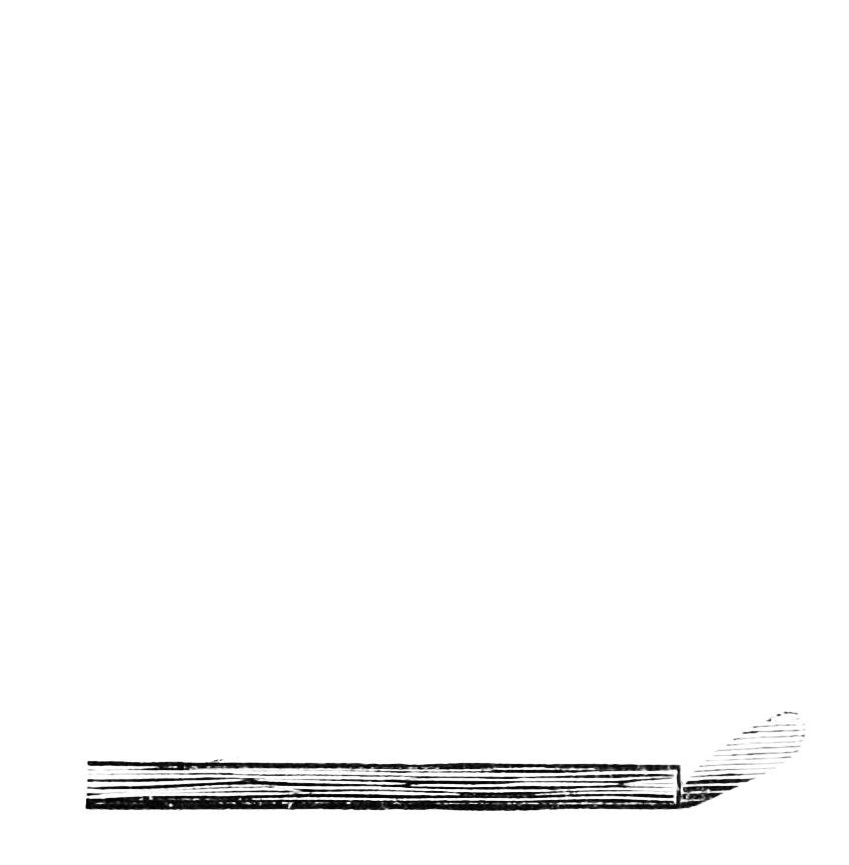
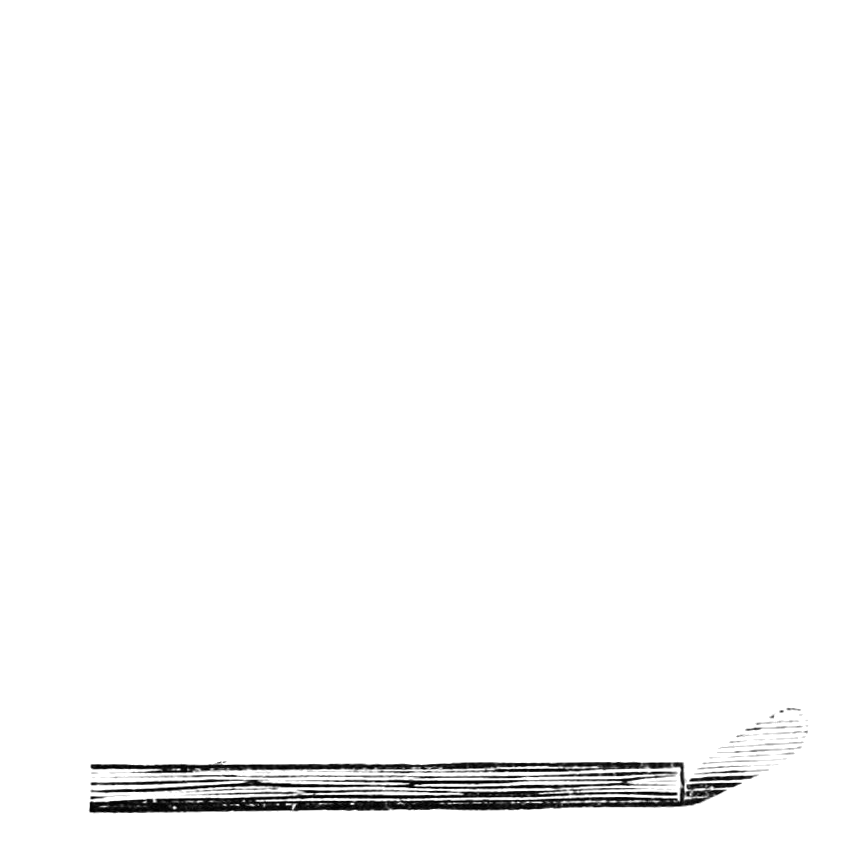
Almost done fire

Changed region(s): [[0.0919, 0.8116, 0.9494, 0.9676]]

diff --git a/FireMinigame.java b/FireMinigame.java
@@ -30,9 +30,8 @@ public class FireMinigame extends JPanel
 
   private double ambient_;
   private double temp_;
+  private double acceleration_, velocity_;
   private int position_;
-  private double velocity_;
-  private boolean isLeft_;
 
   public FireMinigame(Dimension size)
   {
@@ -82,8 +81,7 @@ public class FireMinigame extends JPanel
       weatherClr = Color.BLUE;
     }
     position_ = 0;
-    velocity_ = 0;
-    isLeft_ = false;
+    velocity_ = acceleration_ = 0;
     img_ = new BufferedImage((int)size.getWidth(), (int)size.getHeight(),
                              BufferedImage.TYPE_INT_ARGB);
     g2d_ = (Graphics2D)img_.createGraphics();
@@ -102,20 +100,44 @@ public class FireMinigame extends JPanel
       System.out.println("ERROR: Image(s) missing from img/ directory");
       System.exit(-1);
     }
-    g2d_.drawImage(fire[0],
-                   0, img_.getHeight()/2, (img_.getWidth() - 1), (img_.getHeight() - 1),
-                   0, 0, (fire[0].getWidth() - 1), (fire[0].getHeight() - 1),
-                   Color.BLACK, null); 
 
     timer_ = new Timer(MILLISECONDS_BETWEEN_FRAMES, new ActionListener()
       {
         public void actionPerformed(ActionEvent e)
         {
           timer_.stop();
+          changeBackground(Color.WHITE); 
+          //Calculate position, etc., then draw
+          velocity_ += acceleration_;
+          temp_ += .2*Math.abs(velocity_);
+          position_ += (int)velocity_;
+          if(velocity_ != 0 || acceleration_ != 0)
+          {
+            velocity_ *= .999;
+            acceleration_ *= .85;
+          }
+          if(position_ > 500)
+          {
+            position_ = 500;
+            velocity_ = -1*velocity_;
+            acceleration_ = 0;
+          }
+          else if(position_ < -125)
+          {
+            position_ = -125;
+            velocity_ = -1*velocity_;
+            acceleration_ = 0;
+          }
+          g2d_.drawImage(fire[0],
+                         0, img_.getHeight()/2, (img_.getWidth() - 1), (img_.getHeight() - 1),
+                         0, 0, (fire[0].getWidth() - 1), (fire[0].getHeight() - 1),
+                         Color.BLACK, null); 
           g2d_.drawImage(fire[1],
-                         position_, 0, (img_.getWidth() - 1), (int)(img_.getHeight()/1.06),
+                         position_, 0, (img_.getWidth() - 1), (int)(img_.getHeight()/1.065),
                          0, 0, fire[1].getWidth(), fire[1].getHeight(),
                          Color.BLACK, null); 
+
+          //Text display, etc.
           if(temp_ > 800)
           {
             g2d_.drawImage(fire[2],
@@ -140,7 +162,7 @@ public class FireMinigame extends JPanel
           else
             fireClr = Color.BLUE;
           g2d_.setColor(fireClr);
-          g2d_.drawString("" + Math.round(temp_*100)/100 + "\u00b0F", 350, 150);
+          g2d_.drawString(Math.round(temp_) + "\u00b0F", 350, 150);
           g2d_.setColor(Color.BLACK);
           g2d_.drawString("Today's Weather:", 50, 100);
           g2d_.setColor(weatherClr);
@@ -151,12 +173,12 @@ public class FireMinigame extends JPanel
       }
     );  // new Timer
 
-    //Approximation of Newton's Law of Cooling
+    //Loose approximation of Newton's Law of Cooling
     Timer tempTimer = new Timer(250, new ActionListener()
       {
         public void actionPerformed(ActionEvent e)
         {
-          temp_ += -.01*(temp_ - ambient_);  
+          temp_ += -.07*(temp_ - ambient_);  
         }
       }
     );
@@ -168,38 +190,19 @@ public class FireMinigame extends JPanel
       {
         public void keyPressed(KeyEvent e)
         {
-          System.out.println(position_);
           if(e.getKeyCode() == KeyEvent.VK_LEFT)
           {
-            if(isLeft_)
-              velocity_ += .1;
-            position_ = (int)(position_ - 2*velocity_);
-            if(position_ < -125)
-            {
-              position_ = -125;
-              velocity_ = 1;
-            }
-            isLeft_ = true;
-            temp_ += velocity_/2;
+            acceleration_ -= .1;
           }
           else if(e.getKeyCode() == KeyEvent.VK_RIGHT)
           {
-            if(!isLeft_)
-              velocity_ += .1;
-            position_ = (int)(position_ + 2*velocity_);
-            if(position_ > 350)
-            {
-              position_ = 350;
-              velocity_ = 1;
-            }
-            isLeft_ = false;
-            temp_ += velocity_/2;
+            acceleration_ += .1;
           }
           else if(e.getKeyCode() == KeyEvent.VK_F)
           {
             if(temp_ > 800)
             {
-              if(rng.nextDouble() > .5)
+              if(rng.nextDouble() > .9)
                 System.out.println("You smothered the fire.");
               timer_.stop();
               tempTimer.stop();
@@ -213,8 +216,6 @@ public class FireMinigame extends JPanel
         }
         public void keyReleased(KeyEvent e)
         {
-          //if(position_ < 
-          velocity_ = 1;
         }
       }
     );
@@ -259,6 +260,12 @@ public class FireMinigame extends JPanel
     return isPlay_;
   }
 
+  private void changeBackground(Color color)
+  {
+    g2d_.setColor(color);
+    g2d_.fillRect(0, 0, img_.getWidth(), img_.getHeight());
+  }
+
   public BufferedImage getImage()
   {
     return img_;
@@ -289,5 +296,5 @@ public class FireMinigame extends JPanel
     g.drawImage(img_, 0, 0, null);
   }
 
-}  // class ClickPanel
+}  // class FireMinigame 
 

diff --git a/ImageFrame.java b/ImageFrame.java
@@ -45,6 +45,8 @@ class ImageFrame extends JFrame
     Dimension screenSize = Toolkit.getDefaultToolkit().getScreenSize();
     screenSize.setSize(screenSize.getWidth()/2, screenSize.getHeight()/2);
     this.setSize(screenSize);
+    ImageIcon icon = new ImageIcon("img/neanderthal.png");  // Set icon
+    this.setIconImage(icon.getImage());
 
     //Add menu bar
     this.addMenu();
